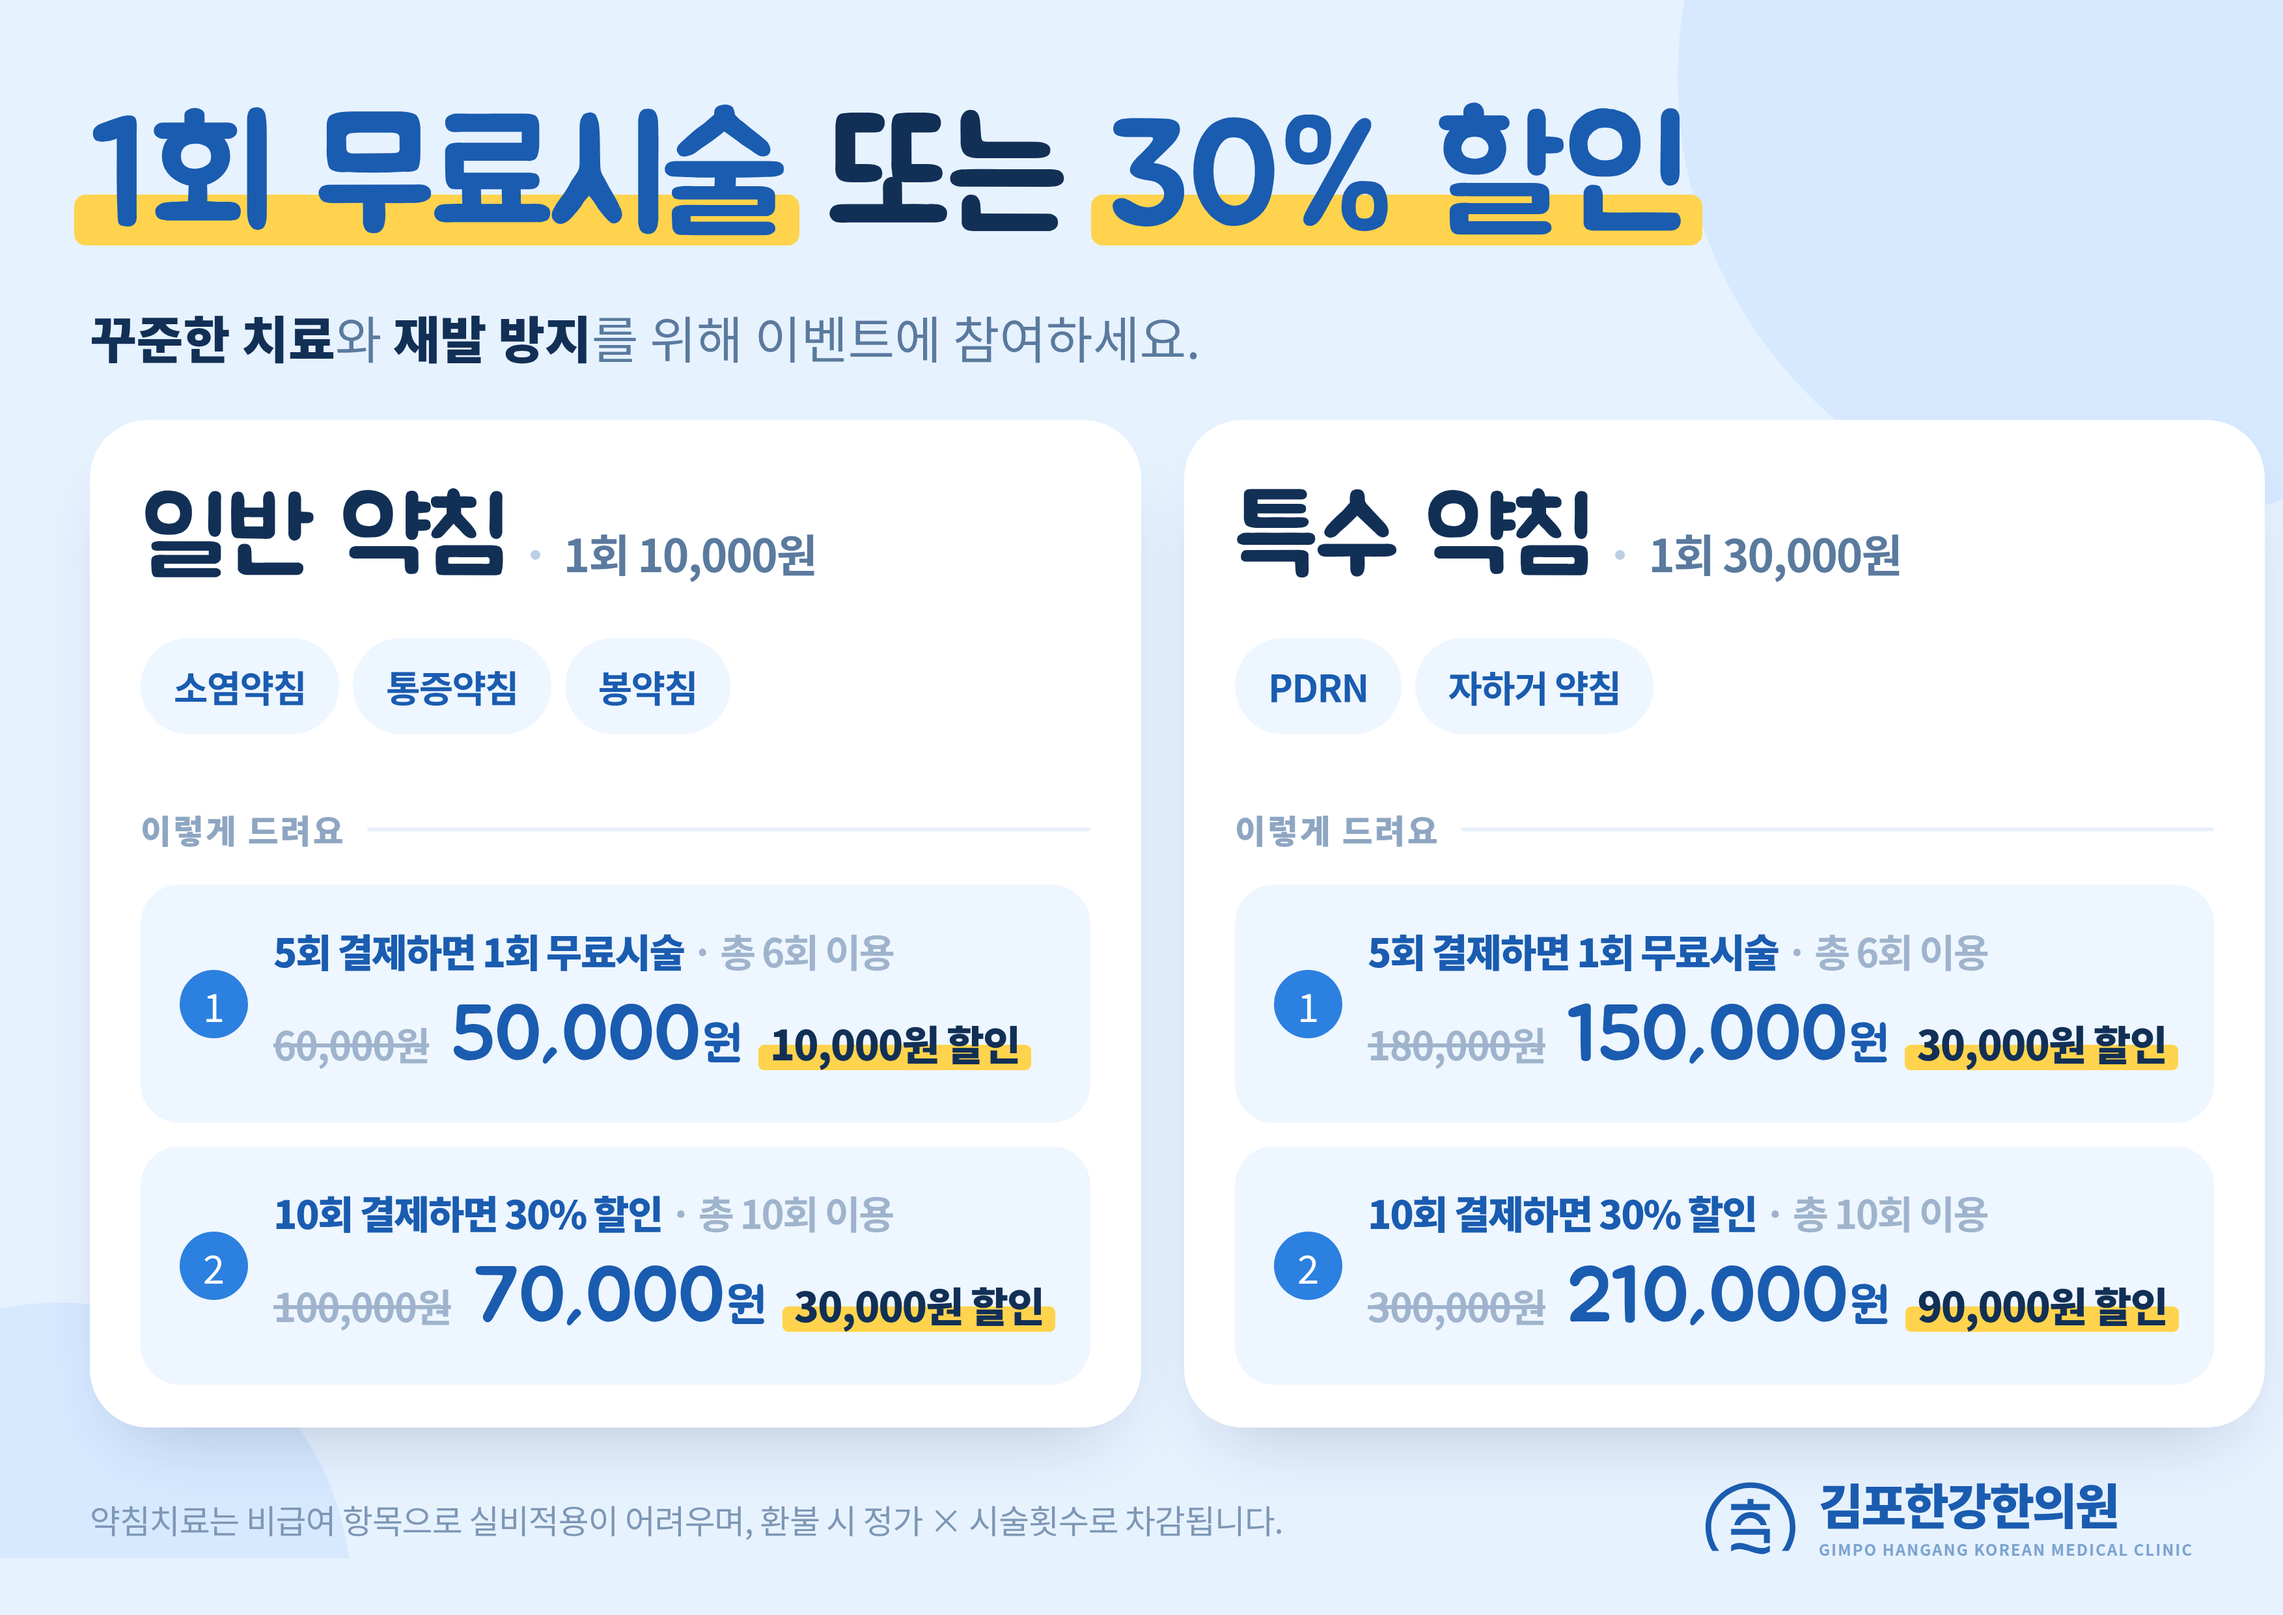
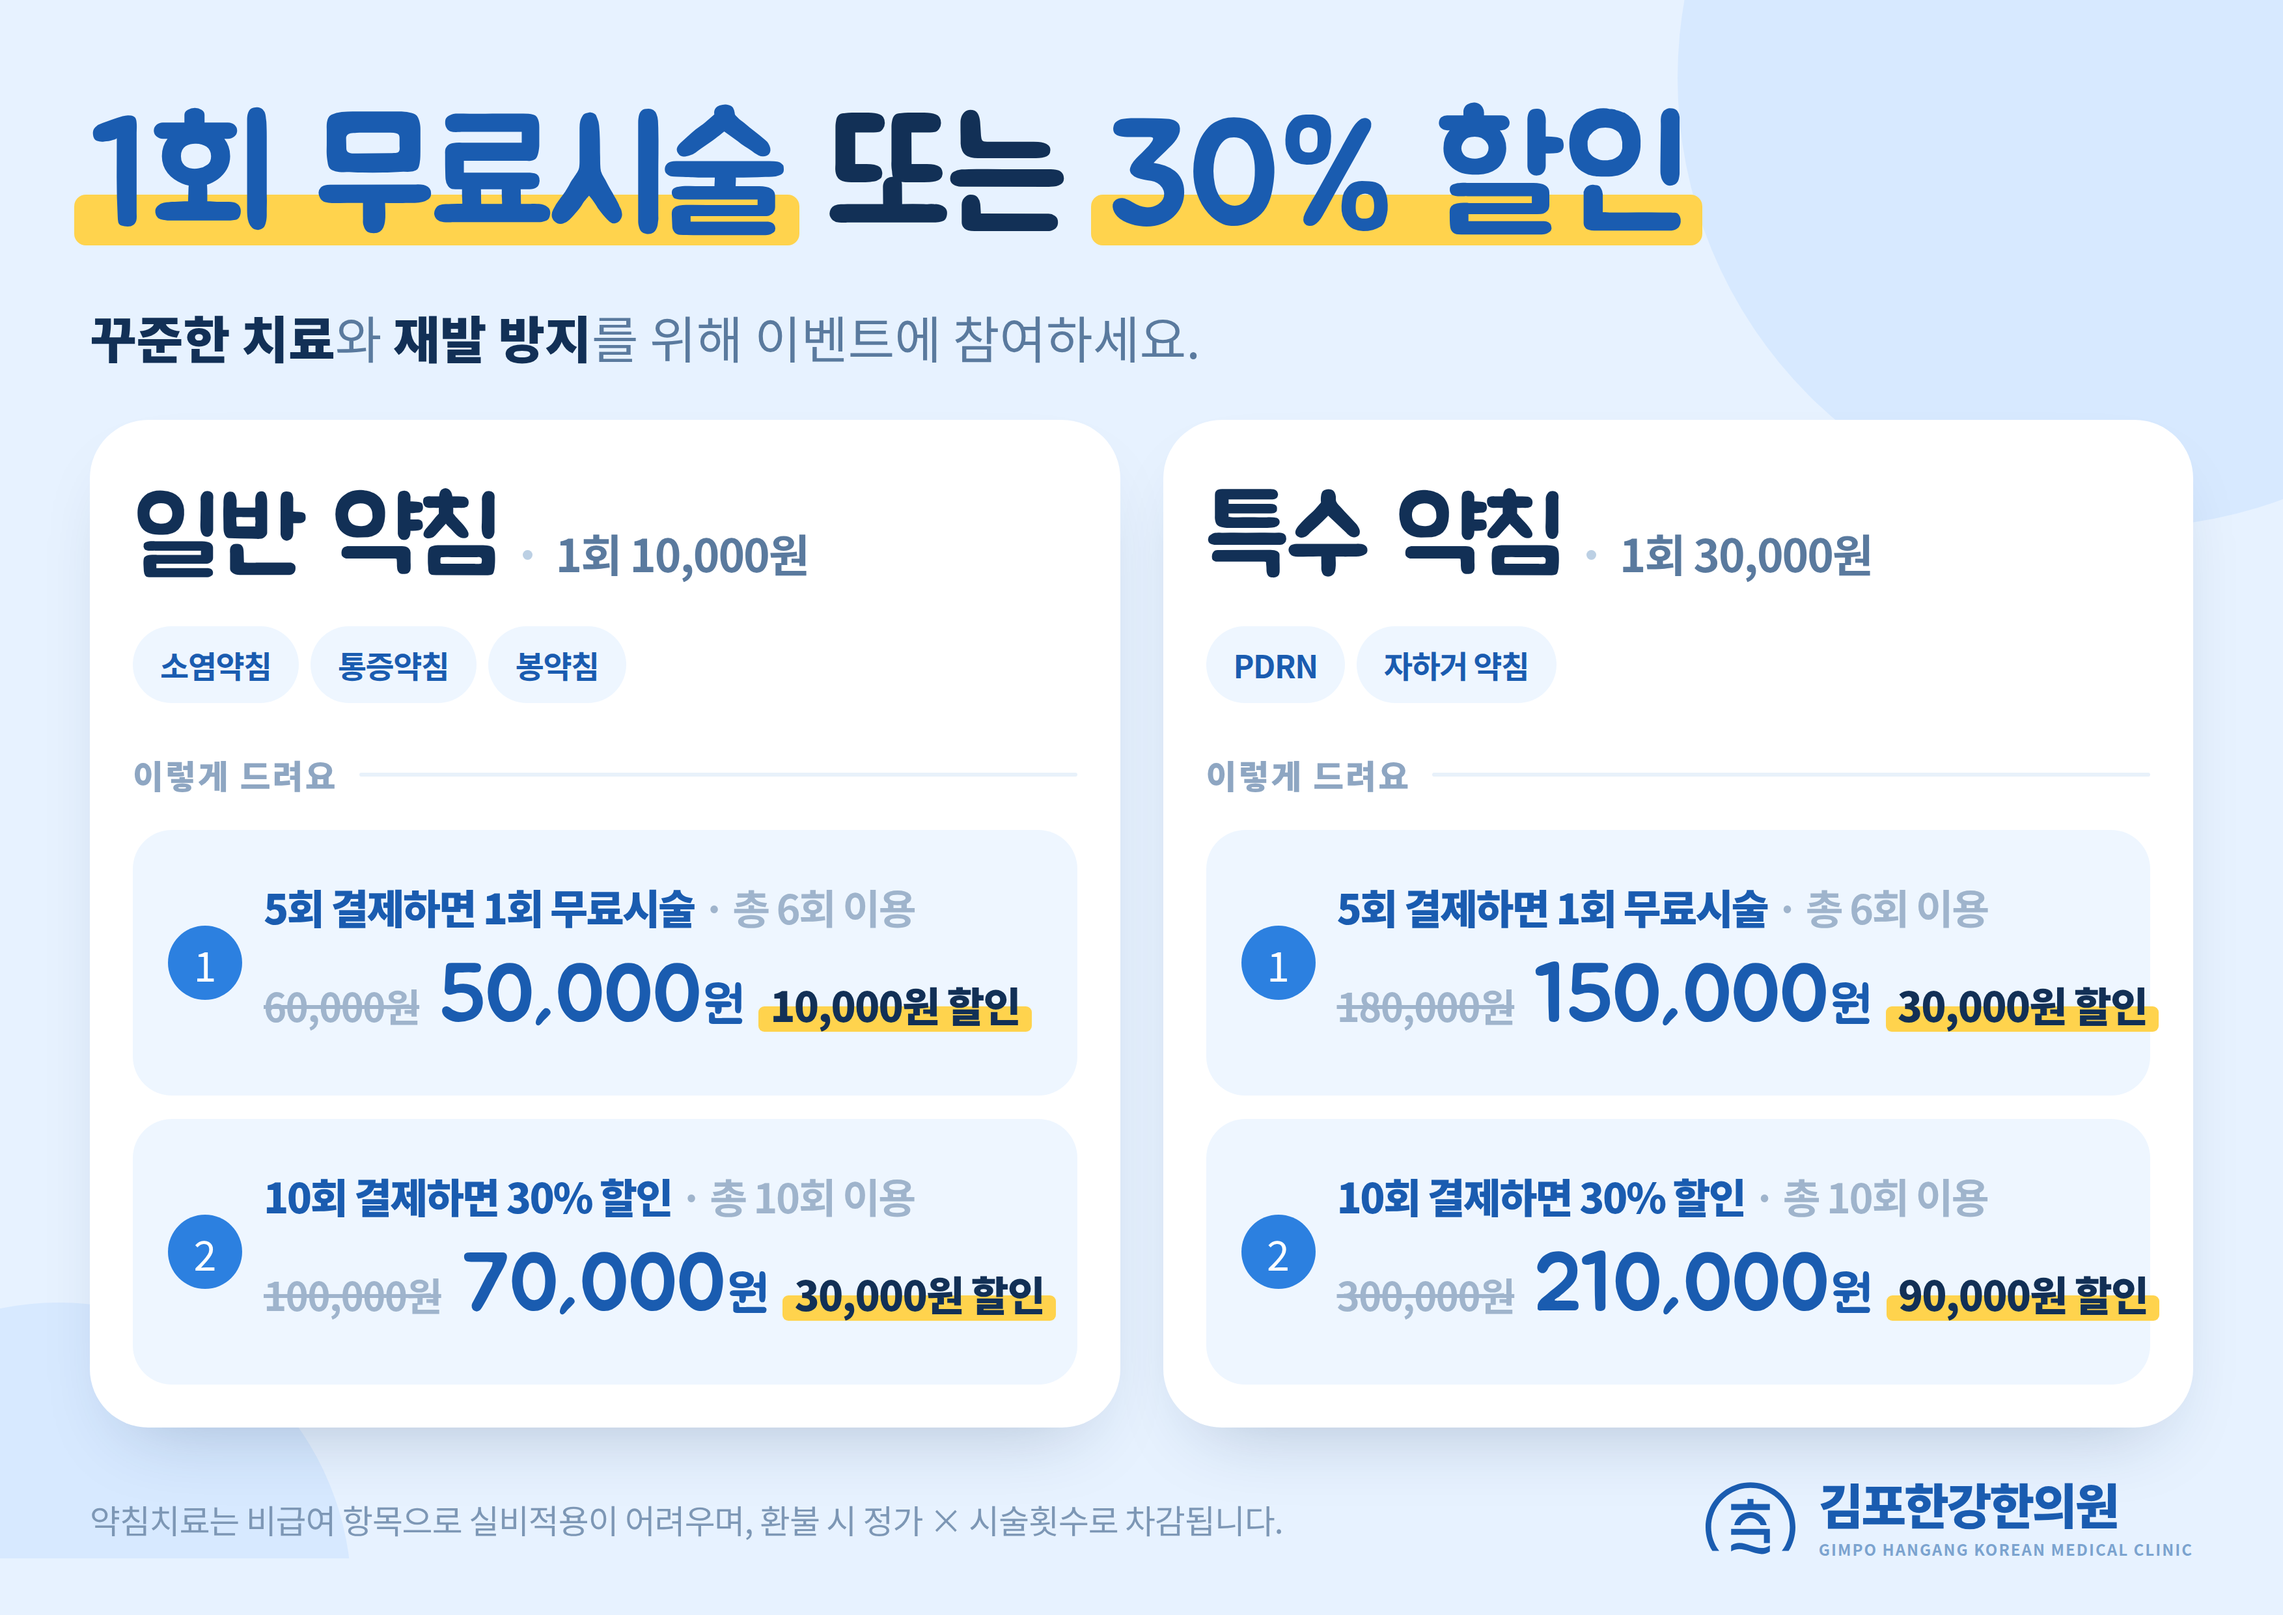
시술명 아래 태그는 줄이고, 혜택 칸은 키움
- 약침 종류 태그 19→16, 알약 여백과 이름과의 간격도 함께 좁힘
- 혜택 칸: 조건 20→21, 할인가 40→42, 번호 35→38, 칸 높이도 키움

할인가를 46까지 올리면 금액 줄이 카드 폭을 넘겨 오른쪽 카드가 잘린다.
그래서 42에서 멈추고 카드·칸의 좌우 여백을 줄여 자리를 벌었다.
열을 minmax(0,1fr) 로 묶어 카드가 종이 밖으로 나가지는 않게 했다.

Claude-Session: https://claude.ai/code/session_017DGhBSAmjkVB1vRVfDZGb9

diff --git a/tools/poster/yakchim-event.html b/tools/poster/yakchim-event.html
@@ -79,12 +79,12 @@
   /* ── 시술 두 가지 ──────────────────────────────────── */
   .cards {
     position: relative; z-index: 1; flex: 1;
-    display: grid; grid-template-columns: 1fr 1fr; gap: 22px;
+    display: grid; grid-template-columns: minmax(0, 1fr) minmax(0, 1fr); gap: 22px;
     padding: 24px 0 0;
   }
   .card {
     background: var(--card); border-radius: 30px;
-    padding: 28px 26px 22px;
+    padding: 28px 22px 22px;
     box-shadow: 0 18px 40px -20px rgba(18, 48, 86, 0.28);
     display: flex; flex-direction: column;
   }
@@ -95,10 +95,10 @@
   }
   .fee::before { content: ""; display: inline-block; width: 5px; height: 5px; border-radius: 50%;
     background: #bcd0e4; vertical-align: 0.28em; margin-right: 12px; }
-  .for { margin-top: 16px; display: flex; gap: 7px; }
+  .for { margin-top: 10px; display: flex; gap: 6px; }
   .for span {
     background: #eef6ff; color: var(--blue-deep); border-radius: 999px;
-    padding: 11px 17px; font-size: 19px; font-weight: 700; letter-spacing: -0.03em;
+    padding: 8px 14px; font-size: 16px; font-weight: 700; letter-spacing: -0.03em;
   }
 
   .perklabel {
@@ -109,23 +109,23 @@
   .perklabel::after { content: ""; flex: 1; height: 2px; border-radius: 2px; background: #e8f1fa; }
   .perks { margin-top: 16px; }
   .perk {
-    display: flex; align-items: center; gap: 13px;
+    display: flex; align-items: center; gap: 11px;
     background: #eef6ff; border-radius: 20px;
-    padding: 19px 20px;
+    padding: 24px 18px;
     color: var(--ink);
   }
   .perk + .perk { margin-top: 12px; }
   /* 윗줄은 조건, 아랫줄이 눈에 걸려야 하는 금액이다 */
-  .perk .cond { font-size: 20px; font-weight: 700; color: #5a7a9e; letter-spacing: -0.04em; }
+  .perk .cond { font-size: 21px; font-weight: 700; color: #5a7a9e; letter-spacing: -0.04em; }
   .perk .cond b { color: var(--blue-deep); font-weight: 900; }
   .perk .cond em { font-style: normal; color: #9fb4cc; }
-  .perk .line { display: flex; align-items: baseline; gap: 11px; margin-top: 5px; }
+  .perk .line { display: flex; align-items: baseline; gap: 10px; margin-top: 5px; }
   .perk .was {
     font-size: 20px; font-weight: 700; color: #9fb4cc; letter-spacing: -0.03em;
     text-decoration: line-through;
   }
-  .perk .now { font-size: 40px; color: var(--blue-deep); letter-spacing: -0.02em; }
-  .perk .now u { text-decoration: none; font-size: 25px; padding-left: 1px; }
+  .perk .now { font-size: 42px; color: var(--blue-deep); letter-spacing: -0.02em; }
+  .perk .now u { text-decoration: none; font-size: 26px; padding-left: 1px; }
   /* 제목의 형광펜 자국과 같은 처리. z-index 1 로 층을 만들어야
      ::before 가 칸 배경 뒤로 숨지 않는다 */
   .perk .save {
@@ -139,9 +139,9 @@
     background: var(--sun); border-radius: 3px;
   }
   .perk .n {
-    flex: none; width: 35px; height: 35px; border-radius: 50%;
+    flex: none; width: 38px; height: 38px; border-radius: 50%;
     background: var(--blue); color: #fff;
-    font-size: 20px; line-height: 36px; text-align: center;
+    font-size: 21px; line-height: 39px; text-align: center;
   }
 
   /* ── 꼬리 ──────────────────────────────────────────── */

diff --git a/tools/poster/README.md b/tools/poster/README.md
@@ -37,6 +37,13 @@
 카드 아래 태그는 **효능이 아니라 약침 종류**다(`.for` 의 `<span>`).
 일반 약침 — 소염약침·통증약침·봉약침, 특수 약침 — PDRN·자하거 약침.
 
+## 혜택 칸 금액 줄은 폭이 빠듯하다
+
+`취소선 금액 + 할인가 + 할인액` 이 한 줄에 들어가야 한다.
+할인가(`.now`)를 두어 단계만 키워도 카드가 종이 밖으로 밀려난다.
+`.cards` 의 열을 `minmax(0, 1fr)` 로 묶어 두어 페이지는 넘어가지 않지만,
+그때는 오른쪽 카드의 할인액이 잘린다. **키운 뒤에는 반드시 다시 뽑아 눈으로 확인할 것.**
+
 ## 문장은 한 줄을 넘지 않는다
 
 모든 문장에 `.oneline`(`white-space: nowrap`)이 걸려 있다.
